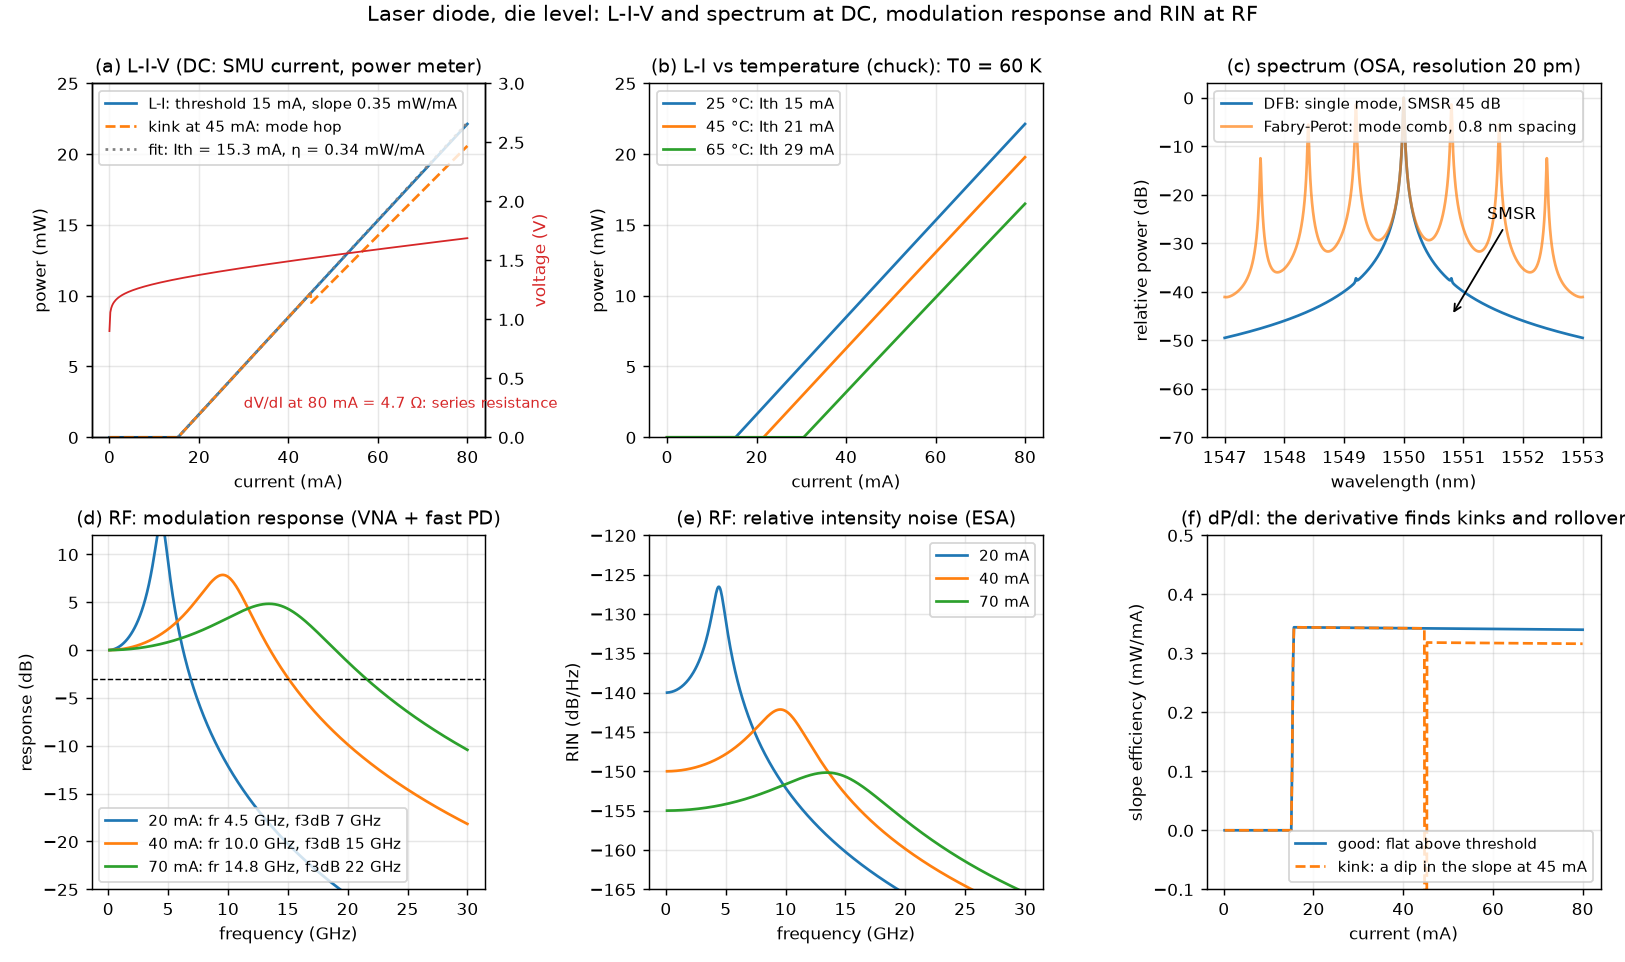
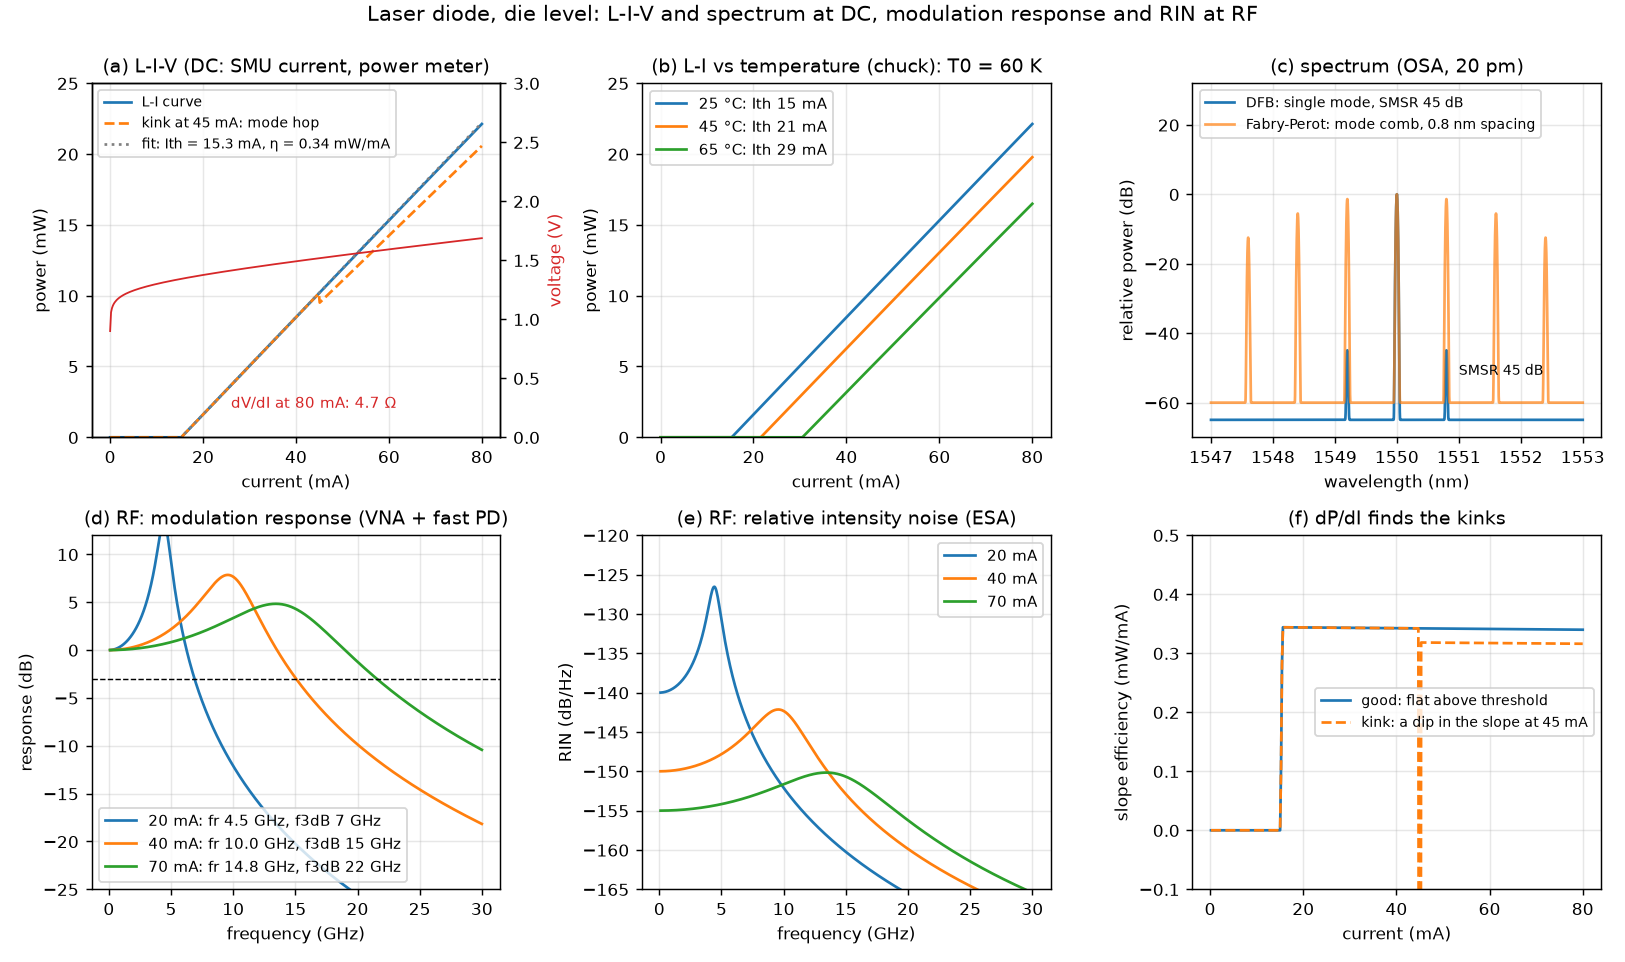
Drivers wait for each command (*OPC?) and raise on a rejected one; equal routing loss on the loopback, own alignment loss for the input fiber; repeatability script; control charts without the two wrapped metrics; study figures corrected (dark current at zero bias, analyser line shape, 6 dB couplers)

diff --git a/study/fig_passives.py b/study/fig_passives.py
@@ -10,20 +10,20 @@ from pts import dut
 
 fig, ax = plt.subplots(2, 2, figsize=(12.5, 7.6))
 lam = np.linspace(1500, 1600, 800)
-def gc_db(lam, il=4.0, lc=1550.0, hw=17.5):
+def gc_db(lam, il=6.0, lc=1550.0, hw=17.5):
     return -(il + ((lam - lc) / hw) ** 2)
 a = ax[0, 0]
-a.plot(lam, 2 * gc_db(lam), label="pair as designed: 4.0 dB each, centre 1550 nm")
-a.plot(lam, 2 * gc_db(lam, lc=1542.0), label="centre at 1542 nm: etch depth / thickness off")
-a.plot(lam, 2 * gc_db(lam, il=5.5), label="5.5 dB each: fiber angle or polarisation")
-a.axhline(-9, color="k", ls=":", lw=0.8); a.text(1501, -8.7, "1 dB below the peak", fontsize=8)
-a.set(title="(a) grating-coupler pair, loopback structure (tunable laser + power meter)", xlabel="wavelength (nm)", ylabel="transmission (dB)", ylim=(-20, -6))
+a.plot(lam, 2 * gc_db(lam), label="pair as designed: 6.0 dB each, centre 1550 nm")
+a.plot(lam, 2 * gc_db(lam, lc=1542.0), label="centre at 1542 nm: etch depth, thickness or fiber angle")
+a.plot(lam, 2 * gc_db(lam, il=8.0), label="8.0 dB each: polarisation, fiber height, dirt on the grating")
+a.axhline(-13, color="k", ls=":", lw=0.8); a.text(1501, -10.9, "dotted: 1 dB below the pair's peak, 25 nm wide (one coupler alone: 35 nm)", fontsize=8)
+a.set(title="(a) grating-coupler pair, loopback structure (tunable laser + power meter)", xlabel="wavelength (nm)", ylabel="transmission (dB)", ylim=(-35, -10))
 a.legend(loc="lower center")
 
 a = ax[0, 1]
 rng = np.random.default_rng(3)
 L = np.array([0.5, 1.0, 2.0, 4.0])                    # cm
-il = 8.3 + 2.7 * L + rng.normal(0, 0.25, 4)
+il = 12.3 + 2.7 * L + rng.normal(0, 0.25, 4)
 m, b = np.polyfit(L, il, 1)
 a.plot(L, il, "o", label="spirals of four lengths")
 a.plot([0, 4.5], [b, b + 4.5 * m], "--", label=f"fit: {m:.2f} dB/cm, intercept {b:.1f} dB = two couplers + routing")
@@ -36,17 +36,18 @@ lam2 = np.arange(1544, 1562, 0.005)
 tr = d.transmissions(lam2)
 drop, thru = 10 * np.log10(tr["drop1"]), 10 * np.log10(tr["thru"])
 a.plot(lam2, drop, label="drop 1"); a.plot(lam2, thru, color="k", alpha=0.7, label="through")
+_drop_line = a.lines[0]
 i0 = int(np.argmax(drop)); pk = lam2[i0]
 lo = i0
 while lo > 0 and drop[lo - 1] > drop.max() - 3: lo -= 1
 hi = i0
 while hi < len(drop) - 1 and drop[hi + 1] > drop.max() - 3: hi += 1
 fwhm = lam2[hi] - lam2[lo]
-a.annotate(f"FWHM {fwhm * 1e3:.0f} pm, Q = λ/FWHM ≈ {pk / fwhm:.0f}", xy=(pk, drop.max()), xytext=(pk - 7.2, -5), arrowprops=dict(arrowstyle="->"), fontsize=8.5)
+_drop_line.set_label(f"drop 1: FWHM {fwhm * 1e3:.0f} pm, Q = λ/FWHM ≈ {round(pk / fwhm, -2):.0f}")
 a.annotate("", xy=(pk + 7.66, -14), xytext=(pk, -14), arrowprops=dict(arrowstyle="<->"))
 a.text(pk + 3.83, -13, "FSR 7.7 nm", ha="center", fontsize=8.5)
-a.set(title="(c) ring resonator: FSR, width, drop loss, through extinction", xlabel="wavelength (nm)", ylabel="transmission (dB)", ylim=(-35, 1))
-a.legend(loc="lower left")
+a.set(title="(c) ring resonator: FSR, width, drop loss, through extinction", xlabel="wavelength (nm)", ylabel="transmission (dB)", ylim=(-46, 1))
+a.legend(loc="lower left", fontsize=8)
 
 a = ax[1, 1]
 d.params = dut.die_params("W01", "D09"); d.realign()
@@ -55,8 +56,8 @@ raw = np.array([d.power_dbm(1, l, 0.0, True) for l in lam3])
 lb = np.array([d.power_dbm(6, l, 0.0, True) for l in lam3])
 a.plot(lam3, raw, lw=0.8, label="drop 1 as read on the power meter")
 a.plot(lam3, lb, lw=0.8, color="gray", label="loopback (two couplers, no device)")
-a.plot(lam3, raw - lb, lw=0.8, color="tab:green", label="drop 1 minus loopback: the device alone")
-a.set(title="(d) the reference plane: subtract the loopback to remove couplers and fibers", xlabel="wavelength (nm)", ylabel="power (dBm) / loss (dB)", ylim=(-50, 2))
+a.plot(lam3, raw - lb, lw=0.8, color="tab:green", label="drop 1 minus loopback: the device (and the fiber-to-fiber difference)")
+a.set(title="(d) the reference: subtract the loopback to remove the couplers' spectrum", xlabel="wavelength (nm)", ylabel="power (dBm) / loss (dB)", ylim=(-66, 2))
 a.legend(loc="lower center")
 fig.suptitle("Passives, die level: everything is an insertion-loss spectrum; the art is in the reference", y=0.995)
 fig.tight_layout()

diff --git a/study/fig_laser.py b/study/fig_laser.py
@@ -1,11 +1,11 @@
-"""Laser diode (edge emitter, VCSEL): L-I-V, temperature, spectrum, modulation response, RIN."""
+"""Laser diode (edge emitter): L-I-V, temperature, spectrum, modulation response, RIN."""
 import numpy as np
 import matplotlib.pyplot as plt
 from common import OUT
 
 I = np.linspace(0, 80, 400)            # mA
 def liv(I, Ith0=15.0, eta=0.35, Rs=4.0, T0=60.0, Rth=60.0, Tamb=25.0, kink_at=None):
-    """P in mW, V in volts, with self-heating raising the threshold (thermal rollover)."""
+    """P in mW, V in volts, with self-heating raising the threshold (too weak here to show rollover)."""
     V = 0.9 + 0.026 * 2 * np.log1p(I / 0.01) + Rs * I * 1e-3
     P = np.zeros_like(I)
     for _ in range(30):                          # self-consistent temperature
@@ -19,17 +19,17 @@ def liv(I, Ith0=15.0, eta=0.35, Rs=4.0, T0=60.0, Rth=60.0, Tamb=25.0, kink_at=No
 fig, ax = plt.subplots(2, 3, figsize=(12.5, 7.4))
 a = ax[0, 0]
 P, V, _ = liv(I)
-a.plot(I, P, label="L-I: threshold 15 mA, slope 0.35 mW/mA")
+a.plot(I, P, label="L-I curve")
 Pk, _, _ = liv(I, kink_at=45)
 a.plot(I, Pk, ls="--", label="kink at 45 mA: mode hop")
 sel = (I > 20) & (I < 35)
 m, b = np.polyfit(I[sel], P[sel], 1)
 a.plot(I, m * I + b, ":", color="gray", label=f"fit: Ith = {-b / m:.1f} mA, η = {m:.2f} mW/mA")
 a.set(title="(a) L-I-V (DC: SMU current, power meter)", xlabel="current (mA)", ylabel="power (mW)", ylim=(0, 25))
-a.legend(loc="upper left")
+a.legend(loc="upper left", fontsize=7.5)
 a2 = a.twinx(); a2.plot(I, V, color="tab:red", lw=1); a2.set_ylabel("voltage (V)", color="tab:red"); a2.set_ylim(0, 3); a2.grid(False)
 dv = np.gradient(V, I)[-1] * 1e3
-a2.text(30, 0.25, f"dV/dI at 80 mA = {dv:.1f} Ω: series resistance", color="tab:red", fontsize=8.5)
+a2.text(26, 0.25, f"dV/dI at 80 mA: {dv:.1f} Ω", color="tab:red", fontsize=8.5)
 
 a = ax[0, 1]
 for T in (25, 45, 65):
@@ -41,14 +41,15 @@ a.legend(loc="upper left")
 a = ax[0, 2]
 lam = np.linspace(1547, 1553, 3000)
 def lorentz(lam, l0, w):
-    return 1 / (1 + ((lam - l0) / (w / 2)) ** 2)
+    """A line as an analyser with resolution w draws it: Gaussian filter shape on a -65 dB floor."""
+    return np.exp(-4 * np.log(2) * ((lam - l0) / w) ** 2) + 10 ** (-6.5)
 dfb = lorentz(lam, 1550.0, 0.02) + 10 ** (-4.5) * (lorentz(lam, 1549.2, 0.02) + lorentz(lam, 1550.8, 0.02))
 fp = sum(np.exp(-((1550.0 + 0.8 * k) - 1550.0) ** 2 / 2.0) * lorentz(lam, 1550.0 + 0.8 * k, 0.02) for k in range(-4, 5))
 a.plot(lam, 10 * np.log10(dfb / dfb.max()), label="DFB: single mode, SMSR 45 dB")
 a.plot(lam, 10 * np.log10(fp / fp.max()) - 0.0, alpha=0.7, label="Fabry-Perot: mode comb, 0.8 nm spacing")
-a.annotate("SMSR", xy=(1550.8, -45), xytext=(1551.4, -25), arrowprops=dict(arrowstyle="->"))
-a.set(title="(c) spectrum (OSA, resolution 20 pm)", xlabel="wavelength (nm)", ylabel="relative power (dB)", ylim=(-70, 3))
-a.legend(loc="upper left")
+a.annotate("SMSR 45 dB", xy=(1550.8, -45), xytext=(1551.0, -52), fontsize=8)
+a.set(title="(c) spectrum (OSA, 20 pm)", xlabel="wavelength (nm)", ylabel="relative power (dB)", ylim=(-70, 32))
+a.legend(loc="upper left", fontsize=8)
 
 f = np.linspace(0.1e9, 30e9, 600)
 def resp_db(f, Ib, Ith=15.0, D=2.0e9, K=0.25e-9, g0=1e9):
@@ -75,8 +76,8 @@ a = ax[1, 2]
 Pg, _, _ = liv(I); Pk2, _, _ = liv(I, kink_at=45)
 a.plot(I[1:], np.gradient(Pg, I)[1:], label="good: flat above threshold")
 a.plot(I[1:], np.gradient(Pk2, I)[1:], ls="--", label="kink: a dip in the slope at 45 mA")
-a.set(title="(f) dP/dI: the derivative finds kinks and rollover", xlabel="current (mA)", ylabel="slope efficiency (mW/mA)", ylim=(-0.1, 0.5))
-a.legend(loc="lower right")
+a.set(title="(f) dP/dI finds the kinks", xlabel="current (mA)", ylabel="slope efficiency (mW/mA)", ylim=(-0.1, 0.5))
+a.legend(loc="center right", fontsize=8)
 fig.suptitle("Laser diode, die level: L-I-V and spectrum at DC, modulation response and RIN at RF", y=0.995)
 fig.tight_layout()
 fig.savefig(OUT / "laser.png")

diff --git a/study/fig_photodiode.py b/study/fig_photodiode.py
@@ -12,7 +12,7 @@ def dark(V, I_gen=15e-9, rsh=np.inf, vbr=-12.0, m=4):
     gen = I_gen * np.sqrt(1 + Vr / 0.5)              # depletion width grows ~ sqrt(V)
     shunt = Vr / rsh
     M = 1.0 / np.clip(1 - (Vr / -vbr) ** m, 1e-6, None)
-    return (gen + shunt) * M
+    return (gen + shunt) * M * (1 - np.exp(-Vr / kT))   # no current at zero bias
 
 # (b) responsivity vs bias: depletion completes, then saturates
 def resp(V, R_max=0.9, V0=0.3):
@@ -28,7 +28,7 @@ def s21(f, f_rc, tau):
 
 fig, ax = plt.subplots(2, 3, figsize=(12.5, 7.4))
 a = ax[0, 0]
-a.semilogy(-V, dark(V), label="good: 15 nA at 0 V, breakdown at 12 V")
+a.semilogy(-V, dark(V), label="good: 26 nA at 1 V, breakdown at 12 V")
 a.semilogy(-V, dark(V, rsh=30e6), label="leaky: 30 MΩ shunt (edge or contact)")
 a.semilogy(-V, dark(V, vbr=-4.5), label="early breakdown at 4.5 V (defect)")
 a.set(title="(a) dark current vs bias (DC, light off)", xlabel="reverse bias (V)", ylabel="dark current (A)")
@@ -36,10 +36,10 @@ a.legend(loc="upper left")
 
 a = ax[0, 1]
 a.plot(-V, resp(V), label="fully depleted by 1 V")
-a.plot(-V, resp(V, V0=1.5), label="thick / low-doped absorber: still rising at 3 V")
-a.plot(-V, resp(V, R_max=0.55), label="low peak R: thin Ge or poor coupling")
+a.plot(-V, resp(V, V0=1.5), label="doping too high: still rising at 3 V")
+a.plot(-V, resp(V, R_max=0.55), label="low plateau: thin absorber or poor coupling")
 a.set(title="(b) responsivity vs bias (DC, known power in)", xlabel="reverse bias (V)", ylabel="responsivity (A/W)", ylim=(0, 1))
-a.legend(loc="lower right")
+a.legend(loc="lower right", fontsize=8)
 
 a = ax[0, 2]
 P = np.logspace(-2, 1.3, 200)                      # mW
@@ -58,12 +58,12 @@ for f_rc, tau, lab in [(45e9, 8e-12, "RC 45 GHz, transit 8 ps"), (45e9, 25e-12, 
     a.semilogx(f / 1e9, s, label=f"{lab}: f3dB {f[i3] / 1e9:.0f} GHz")
 a.axhline(-3, color="k", lw=0.8, ls="--")
 a.set(title="(d) RF: opto-electrical S21 (VNA)", xlabel="frequency (GHz)", ylabel="|S21| (dB, normalised)", ylim=(-20, 2), xlim=(0.1, 100))
-a.legend(loc="lower left")
+a.legend(loc="center left", fontsize=7.5)
 
 t, tr = nrz_eye(f3db=30e9, er_db=10, noise=0.03)
 draw_eye(ax[1, 1], t, tr, "(e) RF: 25 Gb/s eye, 30 GHz diode")
 t, tr = nrz_eye(f3db=11e9, er_db=10, noise=0.03)
-draw_eye(ax[1, 2], t, tr, "(f) same data, 11 GHz diode: eye closes")
+draw_eye(ax[1, 2], t, tr, "(f) same data, 11 GHz diode: slower edges")
 fig.suptitle("Photodiode, die level: DC curves (a-c) with needle probes and an SMU, RF curves (d-f) with GSG probes", y=0.995)
 fig.tight_layout()
 fig.savefig(OUT / "photodiode.png")

diff --git a/scripts/repeatability.py b/scripts/repeatability.py
@@ -1,0 +1,39 @@
+"""How repeatable is "drop loss against the loopback"?  Re-align the fibers many times on one die.
+
+Each fiber of the array has its own alignment loss, and the loopback uses two other fibers than a drop
+channel does. The loopback therefore removes the couplers' spectral shape and the routing, but not the
+difference between fibers. This script measures what is left.
+
+    python scripts/repeatability.py --wafer W01 --die D07 --bank 2 --n 500
+"""
+import argparse
+
+import numpy as np
+
+from pts.dut import DUT, N_RINGS, design_resonances_nm
+
+if __name__ == "__main__":
+    ap = argparse.ArgumentParser()
+    ap.add_argument("--wafer", default="W01"); ap.add_argument("--die", default="D07")
+    ap.add_argument("--bank", type=int, default=2); ap.add_argument("--n", type=int, default=500)
+    a = ap.parse_args()
+    d = DUT(rng_seed=1)
+    d.load(a.wafer, a.die); d.bank = a.bank
+    lam = np.arange(1530.0, 1570.0, 0.002)
+    tr = d.transmissions(lam)
+    des = design_resonances_nm(a.bank)
+    print(f"{a.wafer}/{a.die} bank {a.bank}, {a.n} fiber alignments")
+    print("ring  true loss (dB)  measured mean  sd     min    max   share below zero")
+    for k in range(1, N_RINGS + 1):
+        y = tr[f"drop{k}"]
+        near = np.abs(lam - des[k]) <= 3.8
+        i = np.flatnonzero(near)[np.argmax(y[near])]
+        true = -10 * np.log10(y[i])
+        meas = []
+        for _ in range(a.n):
+            d.realign()
+            p_drop = d.power_dbm(k, lam[i], 0.0, True)
+            p_ref = d.power_dbm(6, lam[i], 0.0, True)
+            meas.append(p_ref - p_drop)
+        m = np.array(meas)
+        print(f"{k}     {true:5.2f}           {m.mean():5.2f}          {m.std():4.2f}  {m.min():5.2f}  {m.max():5.2f}   {100*np.mean(m<0):.0f} %")

diff --git a/scripts/spc_report.py b/scripts/spc_report.py
@@ -15,12 +15,10 @@ from pts import db
 from pts.routines import LIMITS
 
 METRICS = [
-    ("ring1_res_offset_nm", "ring 1 resonance offset (nm)", LIMITS["res_offset_nm"]),
     ("channel_spacing_nm", "channel spacing (nm)", LIMITS["channel_spacing_nm"]),
     ("ring1_drop_loss_db", "ring 1 drop loss vs loopback (dB)", LIMITS["drop_loss_db"]),
     ("ring1_fwhm_nm", "ring 1 FWHM (nm)", LIMITS["fwhm_nm"]),
     ("heater1_ohm", "heater 1 resistance (ohm)", LIMITS["heater_ohm"]),
-    ("heater1_tune_to_design_mw", "heater 1 power to reach design wavelength (mW)", LIMITS["tune_to_design_mw"]),
     ("loopback_dbm_1550", "loopback at 1550 nm (dBm)", LIMITS["loopback_dbm_1550"]),
     ("thru_notch_depth_db", "through-port notch depth (dB)", (10.0, None)),
 ]
@@ -36,7 +34,10 @@ if __name__ == "__main__":
     if w.empty:
         raise SystemExit("no results yet: run measure_lot.py first")
     w["label"] = w.wafer + "/" + w.die
-    fig, axes = plt.subplots(4, 2, figsize=(12, 11.5))
+    # The resonance offset and the heater power to reach the design wavelength are not charted: both are
+    # wrapped modulo one free spectral range and spread evenly over it, so an individuals chart of them
+    # cannot signal anything. They stay in the database.
+    fig, axes = plt.subplots(3, 2, figsize=(12, 8.8))
     print(f"{'metric':28s} {'mean':>9s} {'sigma':>8s} {'Cpk':>6s}  out-of-control dies")
     for ax, (m, title, (lsl, usl)) in zip(axes.ravel(), METRICS):
         if m not in w:

diff --git a/pts/dut.py b/pts/dut.py
@@ -156,7 +156,7 @@ class DUT:
         self.rng = np.random.default_rng(rng_seed)
         self.params: DieParams | None = None
         self.bank = 2
-        self.align_db = np.zeros(len(CHANNELS))
+        self.align_db = np.zeros(len(CHANNELS) + 1)   # one per output fiber, last entry: the input fiber
         self.heater_ma = np.zeros(N_RINGS)
         self.compliance_v = 10.0
 
@@ -168,7 +168,7 @@ class DUT:
 
     def realign(self):
         """A fresh fiber-array alignment: a new random excess loss per fiber."""
-        self.align_db = np.abs(self.rng.normal(0.0, 0.3, len(CHANNELS)))
+        self.align_db = np.abs(self.rng.normal(0.0, 0.3, len(CHANNELS) + 1))
 
     # ---- heaters (SMU side)
     def _hidx(self, ring: int) -> int:
@@ -223,9 +223,9 @@ class DUT:
             return float(10 * np.log10(floor * self.rng.uniform(0.5, 1.5)))
         name = CHANNELS[channel]
         T = self.transmissions(lam_nm)[name]
-        route = ROUTE_LOSS_DB if name != "loopback" else 0.5
+        route = ROUTE_LOSS_DB        # same routing loss on every path, so the loopback removes it
         p_dbm = (laser_dbm + 2 * self._gc_db(lam_nm) - route + 10 * np.log10(max(float(T), 1e-30))
-                 - self.align_db[0] - self.align_db[channel - 1])
+                 - self.align_db[-1] - self.align_db[channel - 1])
         p_lin = 10 ** (p_dbm / 10) + floor * self.rng.uniform(0.5, 1.5)
         return float(10 * np.log10(p_lin) + self.rng.normal(0.0, PM_REPEAT_DB))
 

diff --git a/pts/instruments.py b/pts/instruments.py
@@ -18,7 +18,17 @@ class ScpiInstrument:
         )
 
     def write(self, cmd: str) -> None:
-        self.inst.write(cmd)
+        """Send a command and wait until the instrument has carried it out.
+
+        The *OPC? query does two jobs. It blocks until the command is done, so a
+        reading taken next on ANOTHER instrument (the power meter after a laser
+        step) cannot overtake it. And it makes a rejected command visible: an
+        instrument that answers the write with an error string would otherwise
+        leave that string in the buffer for the next, unrelated query.
+        """
+        reply = self.inst.query(cmd + ";*OPC?").strip()
+        if reply != "1":
+            raise RuntimeError(f"{self.resource}: {cmd!r} answered {reply!r}")
 
     def query(self, cmd: str) -> str:
         return self.inst.query(cmd).strip()

diff --git a/scripts/measure_die.py b/scripts/measure_die.py
@@ -21,7 +21,7 @@ def plot_die(m: dict, out: Path):
         ax.plot(s.wavelength_nm, s[c], lw=0.9, label=c)
     ax.plot(s.wavelength_nm, s.thru, lw=0.9, color="k", alpha=0.6, label="thru")
     ax.plot(s.wavelength_nm, s.loopback, lw=0.9, color="gray", ls="--", label="loopback")
-    ax.set(xlabel="wavelength (nm)", ylabel="power (dBm)", title=f"{m['_verdict']}: wafer {s.attrs.get('wafer','')}{m.get('_die','')}", ylim=(-70, 0))
+    ax.set(xlabel="wavelength (nm)", ylabel="power (dBm)", title=f"{m['_verdict']}: {a.wafer} {a.die}, bank {a.bank}", ylim=(-70, 0))
     ax.legend(ncol=6, fontsize=8, loc="lower center")
     ax.grid(alpha=0.3)
     fig.tight_layout()

diff --git a/pts/station.py b/pts/station.py
@@ -101,7 +101,7 @@ class Station:
         return df
 
     def heater_resistances(self, i_test_a: float = 1e-3) -> dict:
-        """Four-point-style resistance check at a small test current, heater by heater."""
+        """Two-wire resistance check at a small test current, heater by heater (lead resistance included)."""
         out = {}
         for ch in range(1, 5):
             self.smu.set_current(ch, i_test_a)

diff --git a/pts/virtual_rack.py b/pts/virtual_rack.py
@@ -134,6 +134,8 @@ class Rack:
         u = c.upper()
         if u == "*IDN?":
             return "PTS,VirtualProber,0004,0.1"
+        if u == "*OPC?":
+            return "1"
         m = re.fullmatch(r":?MOVE:DIE\s+([\w-]+)\s*,\s*([\w-]+)", c, re.I)
         if m:
             self.dut.load(m.group(1), m.group(2))
